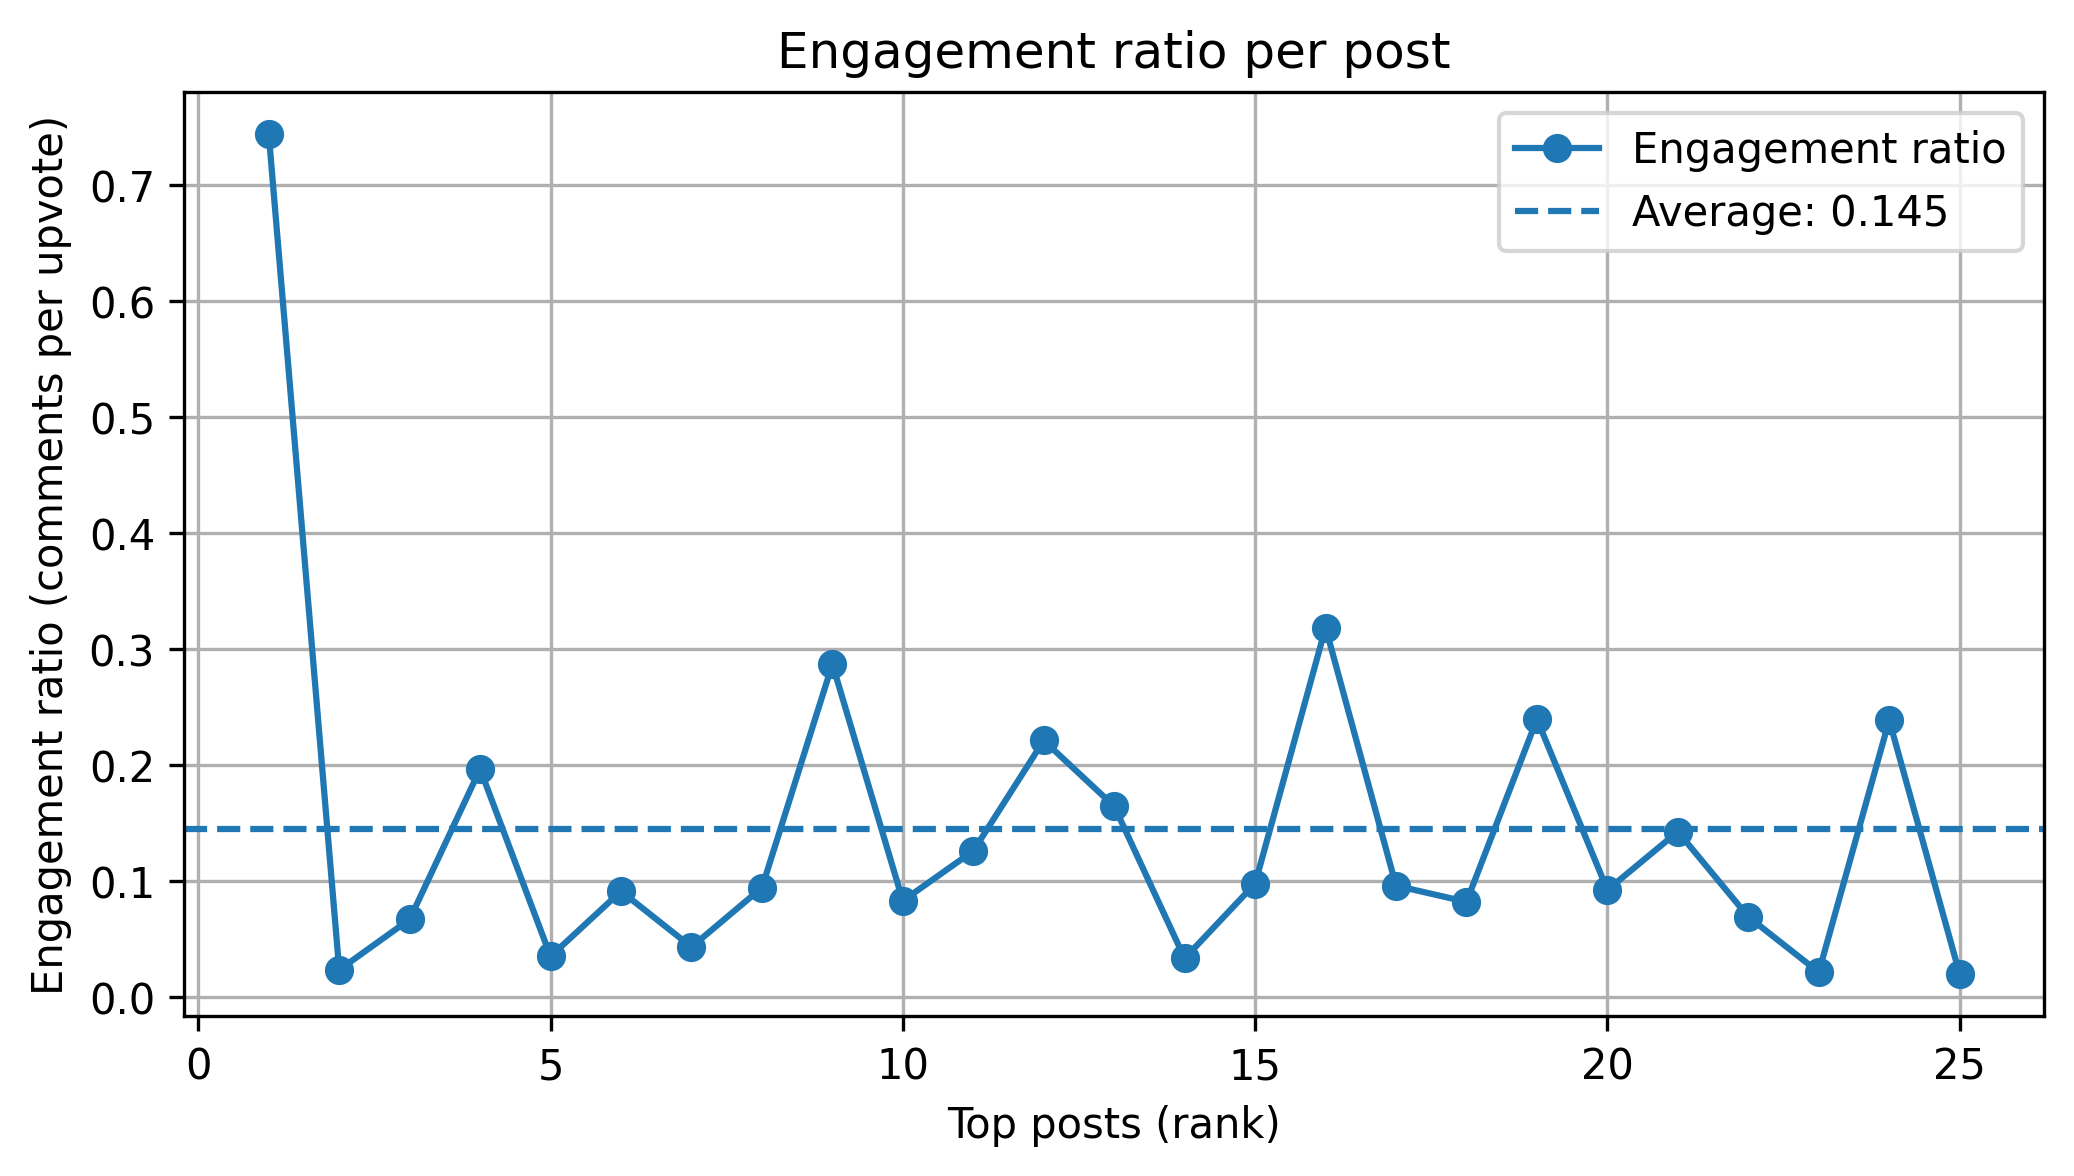
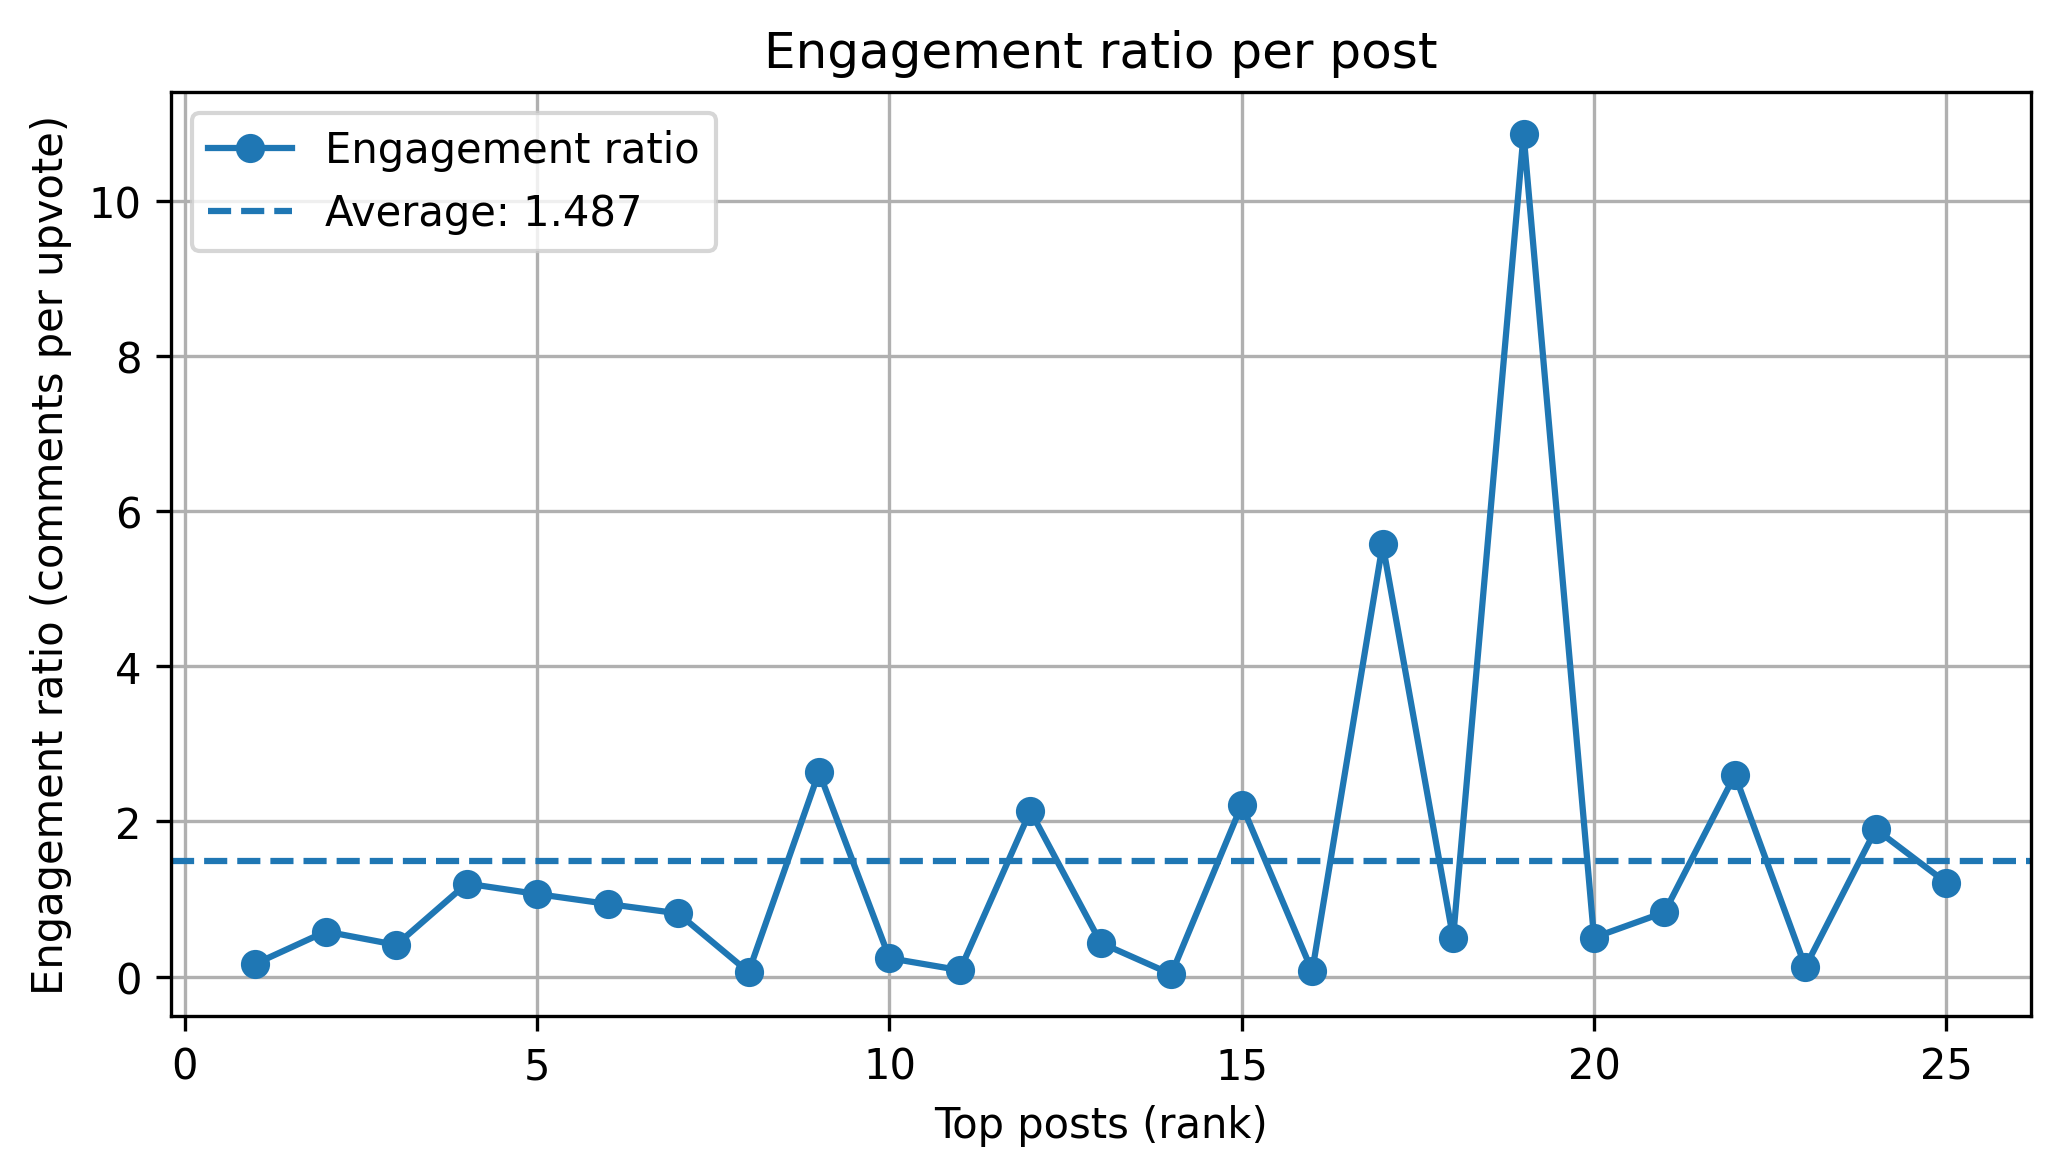
choice of subreddit

diff --git a/main_menu/menu.py b/main_menu/menu.py
@@ -1,8 +1,10 @@
 import os
 import json
 import sys
-import colorama 
-from colorama import Fore, Back, Style
+import colorama
+from colorama import Fore, Style
+
+colorama.init(autoreset=True)
 
 def main_menu():
     subreddits_json = '{"1": "python", "2": "technology", "3": "datascience"}'
@@ -10,29 +12,47 @@ def main_menu():
 
     while True:
         print(Fore.CYAN + "Welcome to The Reddit DataBot!")
-        print(Fore.LIGHTMAGENTA_EX + "=== Reddit Data Navigator ===\n")
-        print("Current Directory:", os.getcwd(), "\n")
-        
+        print(Fore.LIGHTMAGENTA_EX + "=== Reddit Data Navigator ===\n" + Style.RESET_ALL)
+        print(Fore.WHITE + "Current Directory: " + Fore.YELLOW + os.getcwd() + "\n")
+
         for key, name in subreddits.items():
-            print(f"{key}. r/{name}")
-        
-        exit_val = str(len(subreddits) + 1)
-        print(f"{exit_val}. Exit")
-        
-        choice = input(f"\nSelect an option (1-{exit_val}): ").strip()
-        
+            print(Fore.GREEN + f"{key}." + Fore.WHITE + f" r/{name}")
+
+        custom_option = str(len(subreddits) + 1)
+        exit_val = str(len(subreddits) + 2)
+
+        print(Fore.MAGENTA + f"{custom_option}. Enter custom subreddit")
+        print(Fore.RED + f"{exit_val}. Exit")
+
+        choice = input(Fore.CYAN + f"\nSelect an option (1-{exit_val}): " + Style.RESET_ALL).strip()
+
         if choice in subreddits:
             selected_subreddit = subreddits[choice]
-            print(f"\nYou selected r/{selected_subreddit}!")
+            print(Fore.GREEN + f"\nYou selected r/{selected_subreddit}!")
             input(Fore.YELLOW + "Press Enter to continue...")
-            return selected_subreddit  # Return the string of the selected subreddit
+            return selected_subreddit
+
+        elif choice == custom_option:
+            custom = input(Fore.CYAN + "\nEnter subreddit name (without r/): " + Style.RESET_ALL).strip()
+
+            # Enkel validering: ta bort ev. "r/" och trimma
+            custom = custom.replace("r/", "").strip().lower()
+
+            if custom and " " not in custom:
+                print(Fore.GREEN + f"\nYou selected r/{custom}!")
+                input(Fore.YELLOW + "Press Enter to continue...")
+                return custom
+            else:
+                input(Fore.RED + "Invalid subreddit name. Press Enter to try again...")
+
         elif choice == exit_val:
-            print(Fore.RED + "Exiting... Goodbye!")
-            sys.exit()  # Immediately terminate the program
+            print(Fore.RED + "\nExiting... Goodbye!")
+            sys.exit()
+
         else:
             input(Fore.RED + "Invalid choice. Press Enter to try again...")
 
 if __name__ == "__main__":
     result = main_menu()
     if result:
-        print(f"Selected subreddit: {result}")
+        print(Fore.LIGHTGREEN_EX + f"\nSelected subreddit: {result}")
